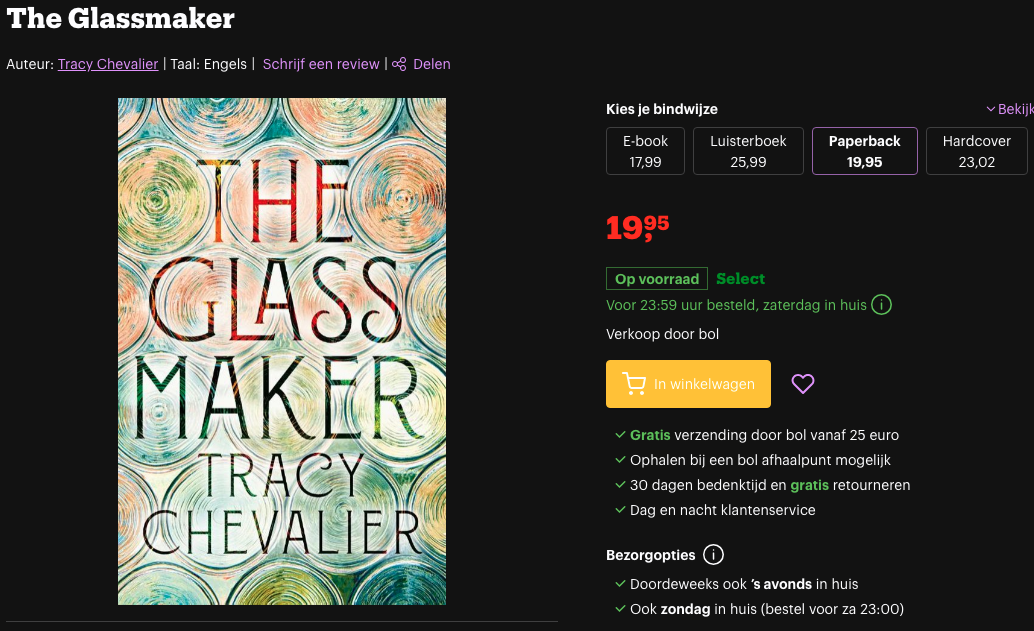
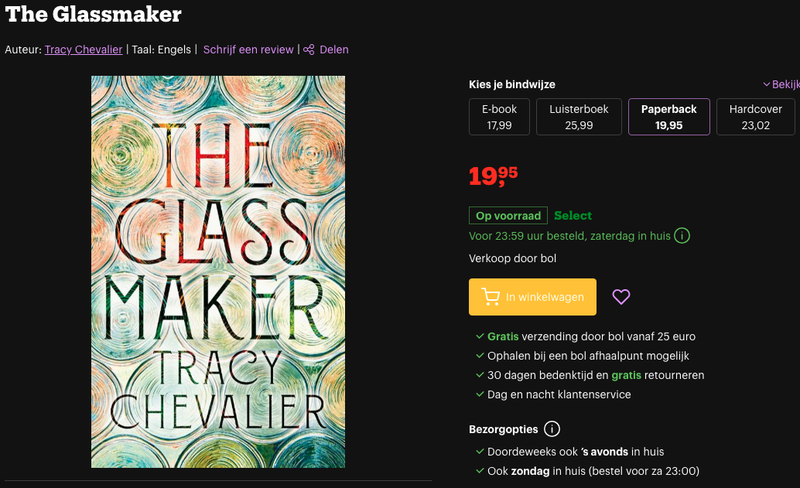
Image : image-dimension->800 resolution->72

diff --git a/app/wish/function.py b/app/wish/function.py
@@ -1,12 +1,15 @@
 import os
 from flask import current_app, flash
 from flask_login import current_user
+from PIL import Image
 from sqlalchemy.exc import SQLAlchemyError
 from werkzeug.utils import secure_filename
 from .model import Wish
 from ..util.logger import log
 from ..util.route import remove_unused_files
 from .. import db
+
+DIMENSION_MAX = 400
 
 def get_upload_folder():
   return current_app.config['UPLOAD_FOLDER']
@@ -18,6 +21,18 @@ def file_exists(file_name):
   file_path = os.path.join(get_upload_folder(), file_name)
   return os.path.exists(file_path)
 
+def resize_image(image, dimension_max=DIMENSION_MAX):
+  width, height = image.size
+
+  if width > height:
+    new_width = dimension_max
+    new_height = int((height / width) * new_width)
+  else:
+    new_height = dimension_max
+    new_width = int((width / height) * new_height)
+
+  return image.resize((new_width, new_height), Image.Resampling.LANCZOS)
+
 def save_file(file):
   file_name = secure_filename(file.filename)
   file_path = os.path.join(get_upload_folder(), file_name)
@@ -25,8 +40,10 @@ def save_file(file):
   os.makedirs(get_upload_folder(), exist_ok=True)
 
   try:
-    file.save(file_path)
-    return file_name
+    with Image.open(file) as image:
+      image_resized = resize_image(image)
+      image_resized.save(file_path, dpi=(72, 72), quality=85)
+      return file_name
   except Exception as e:
     flash(f'Error saving file: {e}', 'warning')
     return None
